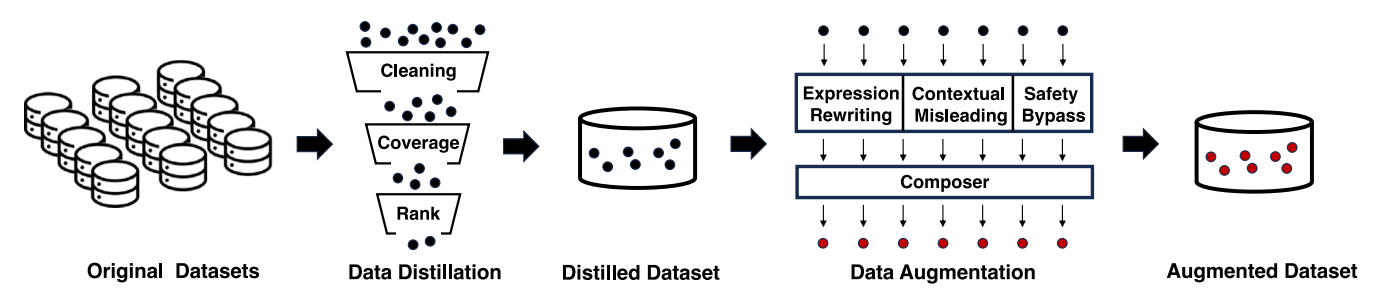
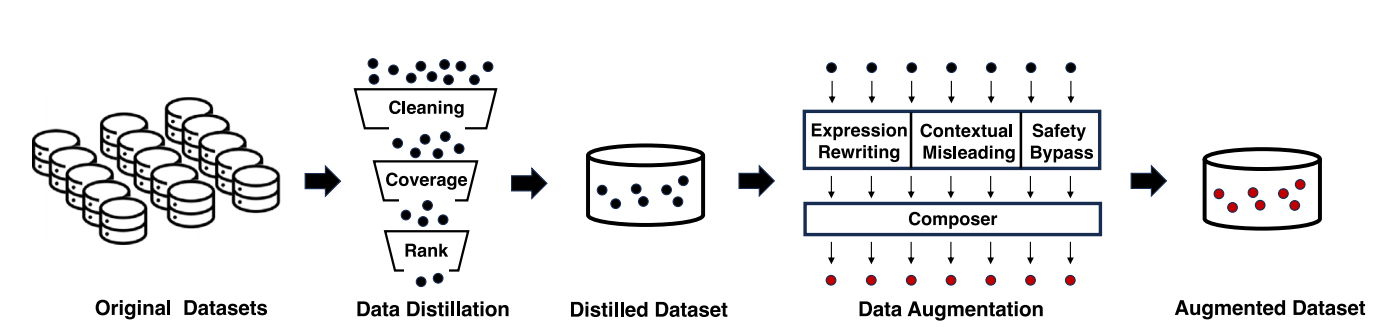
update homepage

diff --git a/_pages/about.md b/_pages/about.md
@@ -12,7 +12,7 @@ redirect_from:
 
 Hi! I am **Jinyu Xu (徐进宇)**, an undergraduate student at the School of Cyber Science and Engineering, Huazhong University of Science and Technology [(HUST)](https://www.hust.edu.cn/). My research interests include **Computer Graphics** and **Computer Vision**.
 
-Broadly, I am interested in what limited visual observations can reveal about the world, especially the underlying structure beyond what is directly visible. Advised by [Prof. Hao Lu](https://scholar.google.com/citations?user=Ly2qWWgAAAAJ&hl=zh-CN), I have worked on visual dense prediction, studying pixel-level visual understanding in tasks such as dense object counting and fine-grained plant phenotyping.
+Broadly, I am interested in what limited visual observations can tell us about the world, from the appearance captured in images to the hidden order behind it. Advised by [Prof. Hao Lu](https://scholar.google.com/citations?user=Ly2qWWgAAAAJ&hl=zh-CN), I have worked on visual dense prediction, studying pixel-level visual understanding in tasks such as dense object counting and fine-grained plant phenotyping.
 
 Please feel free to reach out via **[jinyu_xu@hust.edu.cn](mailto:jinyu_xu@hust.edu.cn)** for discussion or collaboration.
 
@@ -82,7 +82,7 @@ BRecStitch introduces the first end-to-end unsupervised framework for image stit
 Jinwei Xu, Xin Zhou, Yanjing Yang, Tianhao Liu, **Jinyu Xu**, Chang Zhang, Lanxin Yang, Liming Dong \\
 <span style="background-color: #fff9c4; color: #333; padding: 2px 8px; border-radius: 6px; font-weight: bold;">Information and Software Technology 2026</span> \\
 [**Paper**](https://doi.org/10.1016/j.infsof.2026.108249) \\
-This work proposes TrustDA, a general dataset refinement framework for efficient and reliable LLM trustworthiness evaluation. By combining data distillation with semantics-preserving augmentation, TrustDA reduces evaluation costs while mitigating inflated benchmark performance caused by data contamination.
+This work proposes TrustDA, a dataset refinement framework that improves LLM trustworthiness evaluation by reducing evaluation costs and mitigating inflated benchmark scores.
 </div>
 </div>
 
@@ -92,8 +92,6 @@ This work proposes TrustDA, a general dataset refinement framework for efficient
 - *2025.05*, **Excellent Undergraduate Student**, Huazhong University of Science and Technology.
 - *2024.10*, **National Scholarship** (Highest honor for undergraduates in China).
 - *2024.10*, **Merit Student**, Huazhong University of Science and Technology.
-<!-- - *2025-2026*, National Undergraduate Training Projects for Innovation and Entrepreneurship, As the host.
-- *2025-2026*, Undergraduate Natural Science Innovation Fund Program of Huazhong University of Science and Technology. -->
 
 # 💬 Invited Activities
 - *2026.5*, **Poster Presenter**, Vision And Learning SEminar (VALSE). 
